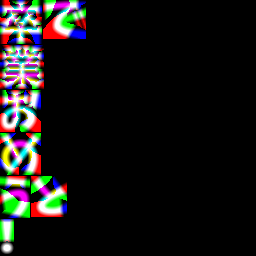
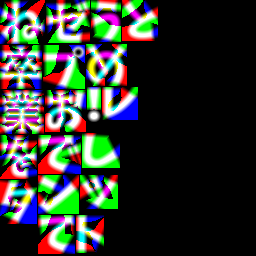
add:プレゼントをタップしてねの文字だけ追加した

diff --git a/src/index.html b/src/index.html
@@ -93,6 +93,17 @@
           height="160"
           visible="false"
         ></a-video>
+        <a-text
+        id="navigateOpenText"
+        value="プレゼントをタップしてね"
+        font="font/keifont-msdf.json"
+        font-image="font/keifont-msdf.png"
+        negate="false"
+        scale="1000 250 125"
+        position="180 2 -300"
+        rotation="-90 0 0"
+        color="#fc6c85">
+        </a-text>
       </a-nft>
 
       <a-assets timeout="30000">
